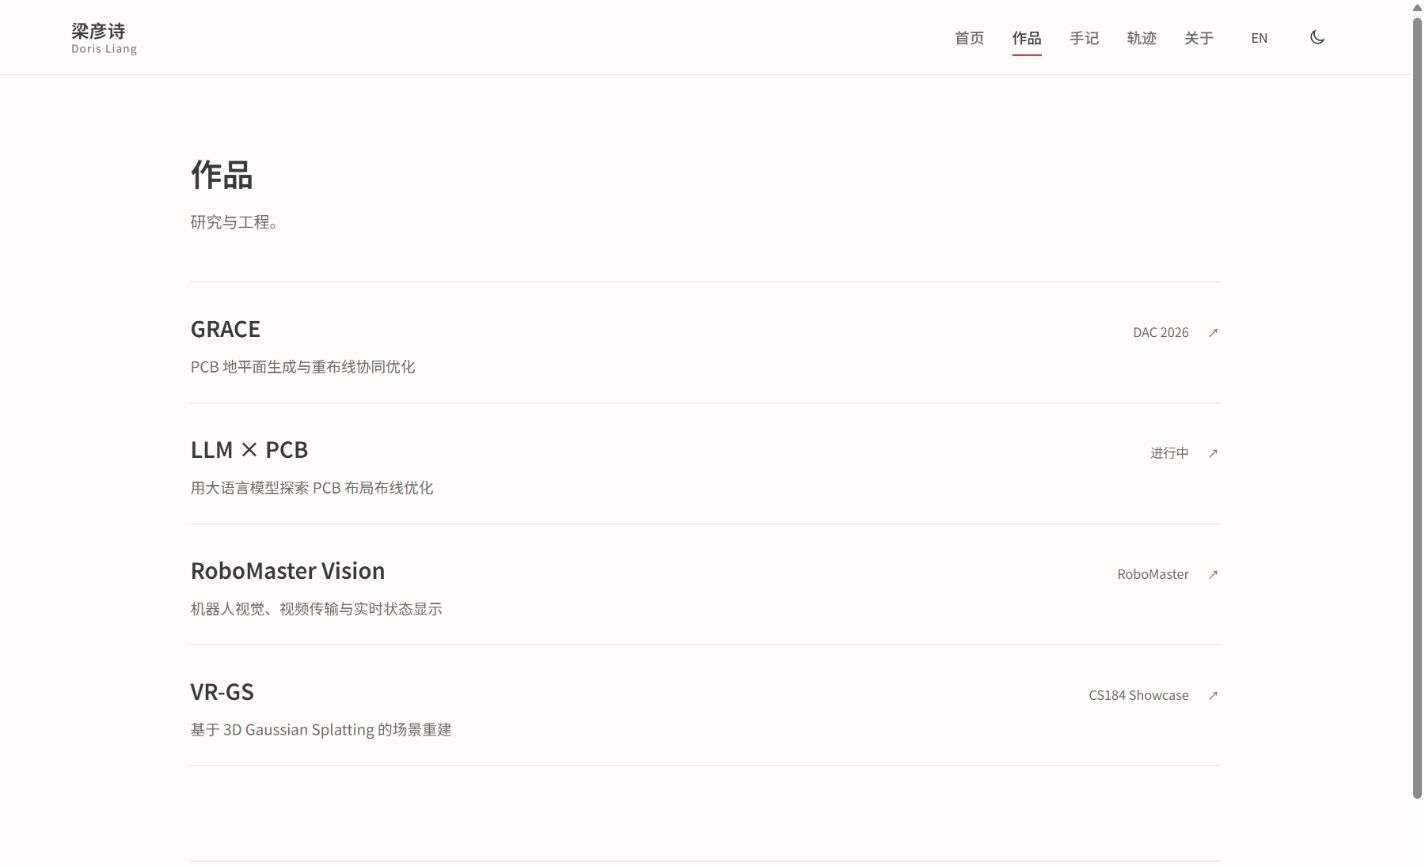
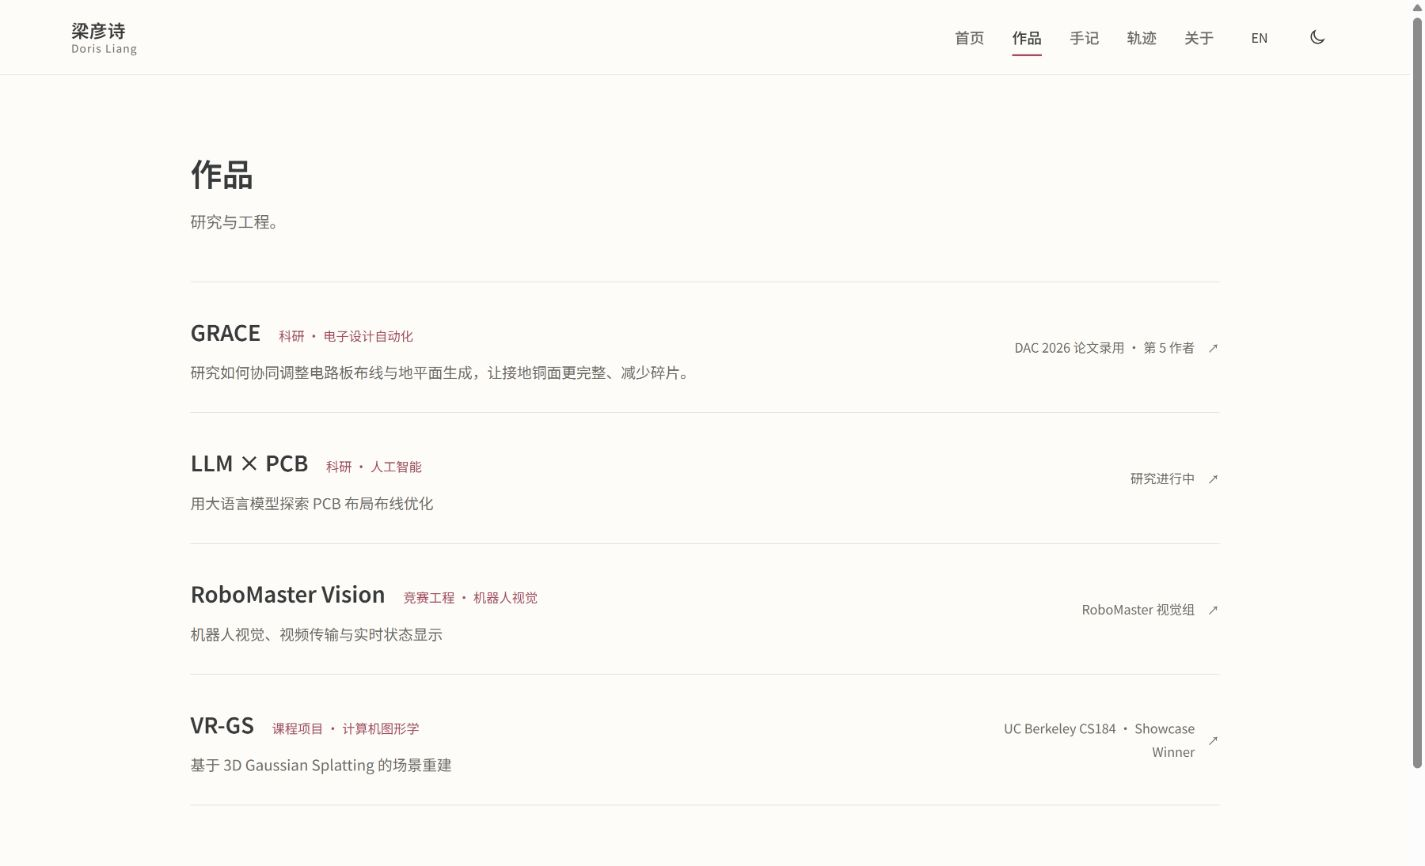
ui(projects)：补充项目类型与科研背景并明确论文身份

diff --git a/styles.css b/styles.css
@@ -131,16 +131,21 @@ h1, h2, h3 { color: var(--ink); line-height: 1.4; overflow-wrap: anywhere; }
 .intro-copy { max-width: 780px; line-height: 1.95; margin: 0; text-wrap: pretty; }
 .content-section { margin-top: 64px; }
 .project-list { border-top: 1px solid var(--line); }
-.project-row { position: relative; padding: 24px 0; border-bottom: 1px solid var(--line); }
+.project-row { position: relative; display: grid; grid-template-columns: minmax(0, 1fr) 240px; column-gap: 40px; padding: 28px 0; border-bottom: 1px solid var(--line); }
 .project-row h2 a::after, .project-row h3 a::after { content: ""; position: absolute; inset: 0; }
 .project-row:hover h2 a, .project-row:hover h3 a { color: var(--accent); }
-.project-row-heading { display: flex; align-items: baseline; justify-content: space-between; gap: 24px; }
+.project-row-heading { display: flex; flex-wrap: wrap; align-items: baseline; gap: 4px 18px; }
+.project-context { color: var(--accent); font-size: 13px; }
 .project-row h2, .project-row h3 { font-size: 22px; font-weight: 600; margin: 0; letter-spacing: 0; }
 .project-row h2 a, .project-row h3 a { display: inline-flex; align-items: center; text-decoration: none; min-height: 44px; }
-.project-status { color: var(--ink-soft); font-size: 13px; flex-shrink: 0; }
-.project-status::after { content: "↗"; display: inline-block; margin-left: 18px; transition: transform .2s; }
-.project-row:focus-within .project-status::after, .project-row:hover .project-status::after { transform: translate(2px,-2px); }
-.project-subtitle { color: var(--ink-soft); font-size: 15px; line-height: 1.7; margin: 4px 0 0; }
+.project-status { grid-column: 2; grid-row: 1 / 3; align-self: center; display: flex; align-items: center; justify-content: flex-end; gap: 12px; color: var(--ink-soft); font-size: 13px; line-height: 1.8; margin: 0; text-align: right; }
+.project-arrow { flex-shrink: 0; transition: transform .2s; }
+.project-row:focus-within .project-arrow, .project-row:hover .project-arrow { transform: translate(2px,-2px); }
+.project-subtitle { grid-column: 1; color: var(--ink-soft); font-size: 15px; line-height: 1.7; margin: 6px 0 0; max-width: 650px; }
+@media (max-width: 800px) {
+ .project-row { grid-template-columns: minmax(0, 1fr); }
+ .project-status { grid-column: 1; grid-row: auto; justify-content: flex-start; text-align: left; margin-top: 12px; }
+}
 .meta { color: var(--ink-soft); font-size: 12px; line-height: 1.65; letter-spacing: .02em; margin: 0 0 8px; }
 .note-entry { display: grid; grid-template-columns: 100px minmax(0, 1fr); gap: 24px; border-top: 1px solid var(--line); border-bottom: 1px solid var(--line); padding: 28px 0; }
 .note-entry time, .honor-row time { font: 12px/1.7 var(--font-mono); color: var(--ink-soft); padding-top: 6px; }
@@ -215,7 +220,7 @@ h1, h2, h3 { color: var(--ink); line-height: 1.4; overflow-wrap: anywhere; }
  .inner-page { padding-top: 40px; padding-bottom: 64px; }.page-title { margin-bottom: 32px; }.page-title h1 { font-size: 30px; }
  .home-content { padding-bottom: 56px; }.content-section { margin-top: 44px; }.section-heading { gap: 12px; margin-bottom: 18px; }.section-heading h2 { font-size: 20px; }
  .intro-copy { font-size: 16px; line-height: 1.9; }
- .project-row { padding: 20px 0; }.project-row h2, .project-row h3 { font-size: 20px; }.project-row-heading { gap: 12px; }.project-status { font-size: 12px; }.project-status::after { margin-left: 8px; }.project-subtitle { font-size: 14px; }
+ .project-row { padding: 20px 0; }.project-row h2, .project-row h3 { font-size: 20px; }.project-row-heading { gap: 2px 12px; }.project-status, .project-context { font-size: 12px; }.project-subtitle { font-size: 14px; }
  .note-entry, .honor-row { grid-template-columns: 1fr; gap: 8px; }.note-entry h2, .note-entry h3 { font-size: 22px; }
  .year-overview { grid-template-columns: 1fr; margin-bottom: 32px; padding-left: 8px; }.year-overview a { border-top: 0; border-left: 1px solid var(--line); padding: 0 0 24px 24px; }.year-overview a::before { left: -4px; top: 12px; }.year-overview span { margin-top: 0; }
  .timeline-year { grid-template-columns: 1fr; gap: 20px; }.timeline-events { margin-left: 4px; padding-left: 24px; }.timeline-event::before { left: -28px; }.timeline-event .meta span { display: block; }

diff --git a/src/components.js b/src/components.js
@@ -1,7 +1,7 @@
 // 文件用途：生成可复用的导航、页脚、项目条目与获奖文章入口。
 import { site } from "../content/site-data.js";
 import { honors } from "../content/honors.js";
-import { ui, localizedNote, projectSummaries } from "../content/locales.js";
+import { ui, localizedNote, projectSummaries, projectContext } from "../content/locales.js";
 import { pathFor, origin } from "./routes.js";
 import { icon, arrow } from "./icons.js";
 
@@ -40,10 +40,15 @@ export function documentPage({ key, lang, title, description, body }) {
 <html lang="${lang === "en" ? "en" : "zh-CN"}"><head><meta charset="UTF-8"><meta name="viewport" content="width=device-width, initial-scale=1"><title>${escape(title)} · ${lang === "en" ? "Doris Liang" : "梁彦诗"}</title><meta name="description" content="${escape(description)}"><meta name="theme-color" content="#fdfcf8"><link rel="canonical" href="${canonical}"><link rel="alternate" hreflang="zh-CN" href="${origin}${pathFor(key)}"><link rel="alternate" hreflang="en" href="${origin}${pathFor(key, "en")}"><link rel="alternate" hreflang="x-default" href="${origin}${pathFor(key)}"><meta property="og:title" content="${escape(title)} · Doris Liang"><meta property="og:description" content="${escape(description)}"><meta property="og:url" content="${canonical}"><meta property="og:type" content="${key.startsWith("notes/") ? "article" : "website"}"><meta property="og:locale" content="${lang === "en" ? "en_US" : "zh_CN"}"><link rel="icon" href="/favicon.svg" type="image/svg+xml"><link rel="alternate" type="application/rss+xml" title="Doris Liang · Writing" href="/rss.xml"><script src="/theme-init.js"></script><link rel="preload" href="/assets/fonts/livenest-sans-sc.woff2" as="font" type="font/woff2" crossorigin><link rel="stylesheet" href="/styles.css"></head><body><a class="skip-link" href="#main">${ui[lang].skip}</a>${header(key, lang)}<main id="main" tabindex="-1">${body}</main>${footer(lang)}<script type="module" src="/app.js"></script></body></html>`;
 }
 
-/** Give the project index only two reading levels; attribution and measurements belong on the detail page. */
+/** Explain project type, problem and recognition at a glance, keeping full technical evidence in details. */
 export function projectRow(project, lang, heading = "h2") {
-  const statuses = { grace: "DAC 2026", "llm-pcb": lang === "en" ? "In progress" : "进行中", robomaster: "RoboMaster", vrgs: "CS184 Showcase" };
-  return `<article class="project-row"><div class="project-row-heading"><${heading}><a href="${pathFor(`projects/${project.id}`, lang)}">${escape(project.title)}</a></${heading}><span class="project-status">${statuses[project.id]}</span></div><p class="project-subtitle">${projectSummaries[project.id][lang]}</p></article>`;
+  const statuses = {
+    grace: lang === "en" ? "Paper accepted at DAC 2026 · Fifth author" : "DAC 2026 论文录用 · 第 5 作者",
+    "llm-pcb": lang === "en" ? "Research in progress" : "研究进行中",
+    robomaster: lang === "en" ? "RoboMaster vision team" : "RoboMaster 视觉组",
+    vrgs: "UC Berkeley CS184 · Showcase Winner"
+  };
+  return `<article class="project-row"><div class="project-row-heading"><${heading}><a href="${pathFor(`projects/${project.id}`, lang)}">${escape(project.title)}</a></${heading}><span class="project-context">${escape(projectContext[project.id][lang])}</span></div><p class="project-subtitle">${escape(projectSummaries[project.id][lang])}</p><p class="project-status"><span>${escape(statuses[project.id])}</span><span class="project-arrow" aria-hidden="true">↗</span></p></article>`;
 }
 
 /** Connect the award and the story from every article entry point using one award record. */

diff --git a/content/locales.js b/content/locales.js
@@ -57,10 +57,18 @@ export function localizedNote(lang) {
   return { ...notes[0], title: ui[lang].original, summary: ui[lang].originalSummary };
 }
 
-// 项目索引仅提供短介绍，完整贡献与指标仍在原始项目数据中。
+// 项目索引交代具体问题；完整贡献与指标仍在原始项目数据中。
 export const projectSummaries = {
-    grace: { zh: "PCB 地平面生成与重布线协同优化", en: "Ground-plane generation and PCB rerouting" },
+    grace: { zh: "研究如何协同调整电路板布线与地平面生成，让接地铜面更完整、减少碎片。", en: "Research on jointly optimizing PCB routing and ground-plane generation for larger, less fragmented ground planes." },
     "llm-pcb": { zh: "用大语言模型探索 PCB 布局布线优化", en: "Exploring PCB optimization with language models" },
     robomaster: { zh: "机器人视觉、视频传输与实时状态显示", en: "Robot vision, video pipelines, and live status overlays" },
     vrgs: { zh: "基于 3D Gaussian Splatting 的场景重建", en: "3D scene reconstruction with Gaussian Splatting" }
   };
+
+// 类型与成果分开表达，读者无需先认识项目缩写。
+export const projectContext = {
+  grace: { zh: "科研 · 电子设计自动化", en: "Research · Electronic design automation" },
+  "llm-pcb": { zh: "科研 · 人工智能", en: "Research · Artificial intelligence" },
+  robomaster: { zh: "竞赛工程 · 机器人视觉", en: "Competition engineering · Robot vision" },
+  vrgs: { zh: "课程项目 · 计算机图形学", en: "Course project · Computer graphics" }
+};

diff --git a/README.md b/README.md
@@ -50,6 +50,6 @@ GitHub Pages 工作流发布 `dist/`，对 `main` 的推送会触发部署。分
 
 ## 设计与验收
 
-内容区最大宽度 1040px，阅读区 700px，使用暖白、柔和玫瑰色和细分隔线。网页界面与大开场统一复用 LivePilot-v2 网页的 LiveNest Sans SC 本地字体，文学原文保留衬线字体。项目列表只展示名称、短说明与右侧短状态；完整身份与指标进入详情页。时间轴桌面展示横向年度导航，手机纵向展开。详细约束和验证记录见 [设计说明](docs/个人站改版.md) 与 [验收记录](docs/改版验收.md)。
+内容区最大宽度 1040px，阅读区 700px，使用暖白、柔和玫瑰色和细分隔线。网页界面与大开场统一复用 LivePilot-v2 网页的 LiveNest Sans SC 本地字体，文学原文保留衬线字体。项目列表展示名称、科研／竞赛工程／课程项目类型、一句问题说明和成果状态；GRACE 直接标明论文录用与第 5 作者，完整贡献与指标进入详情页。时间轴桌面展示横向年度导航，手机纵向展开。详细约束和验证记录见 [设计说明](docs/个人站改版.md) 与 [验收记录](docs/改版验收.md)。
 
 既有 `design-qa.md`、`hero-source-audit.md` 及 font/hero 比较脚本是上一版历史记录，不代表新版结构。参考设计归属见 `THIRD_PARTY_NOTICES.md`；没有复制 Innei 的个人内容或图片。

diff --git a/docs/改版验收.md b/docs/改版验收.md
@@ -18,7 +18,9 @@
 
 ## 最后一次视觉调整
 
-根据用户对信息杂乱的反馈，项目索引取消编号、作者身份、长状态和成果段落；每项只显示名称、一句短说明、右侧短状态，整行可点击。详情页保留作者身份与完整成果。界面字体直接复用 LivePilot-v2 网页的字体文件，字体载入和四种宽度的全站矩阵已重新检查。
+项目索引取消编号与重复成果段落，保留项目名称、明确类型、问题说明和成果状态。GRACE 标为“科研 · 电子设计自动化”，说明电路板布线与地平面协同优化的研究问题，并显示“DAC 2026 论文录用 · 第 5 作者”。其余项目区分科研、竞赛工程与课程项目。详情页保留完整贡献与指标，界面继续复用 LivePilot-v2 网页字体。
+
+此次补充项目背景后，重新通过构建、22 页及 544 内部引用检查、lint 与 JavaScript 语法检查。浏览器补验中英文作品页 × 390 / 768 / 1024 / 1440px × 深浅色，共 16 个组合均无横向溢出；桌面与手机作品截图已更新。上方全站 176 组合记录属于前次完整改版验收，本次未重跑其他页面的全矩阵。
 
 ## 截图
 

diff --git a/docs/个人站改版.md b/docs/个人站改版.md
@@ -3,7 +3,7 @@
 
 ## 页面与视觉
 
-首页保持既有头像、居中大开场与动画布局，之后依次为自我介绍、GRACE 与 LLM × PCB 两项精选研究、获奖文章入口。项目总览每项只有名称、一句短说明，右侧展示简短状态，整行均可点击；删除索引编号、头部重复英文标签和列表成果段落。详情解释背景、贡献、成果和链接；不把所有信息堆进首页。
+首页保持既有头像、居中大开场与动画布局，之后依次为自我介绍、GRACE 与 LLM × PCB 两项精选研究、获奖文章入口。项目总览每项展示名称与类型、一句问题说明，右侧展示成果状态，整行均可点击；手机在说明下展示状态，避免挤压长文本。删除索引编号、头部重复英文标签和列表成果段落。详情解释背景、贡献、成果和链接；不把所有信息堆进首页。
 
 主导航：首页、作品、手记、轨迹、关于。荣誉是独立页面，从轨迹、关于、页脚与获奖文章可达。手机以非模态菜单提供全部主导航，Escape 关闭并把焦点归还菜单按钮。
 
